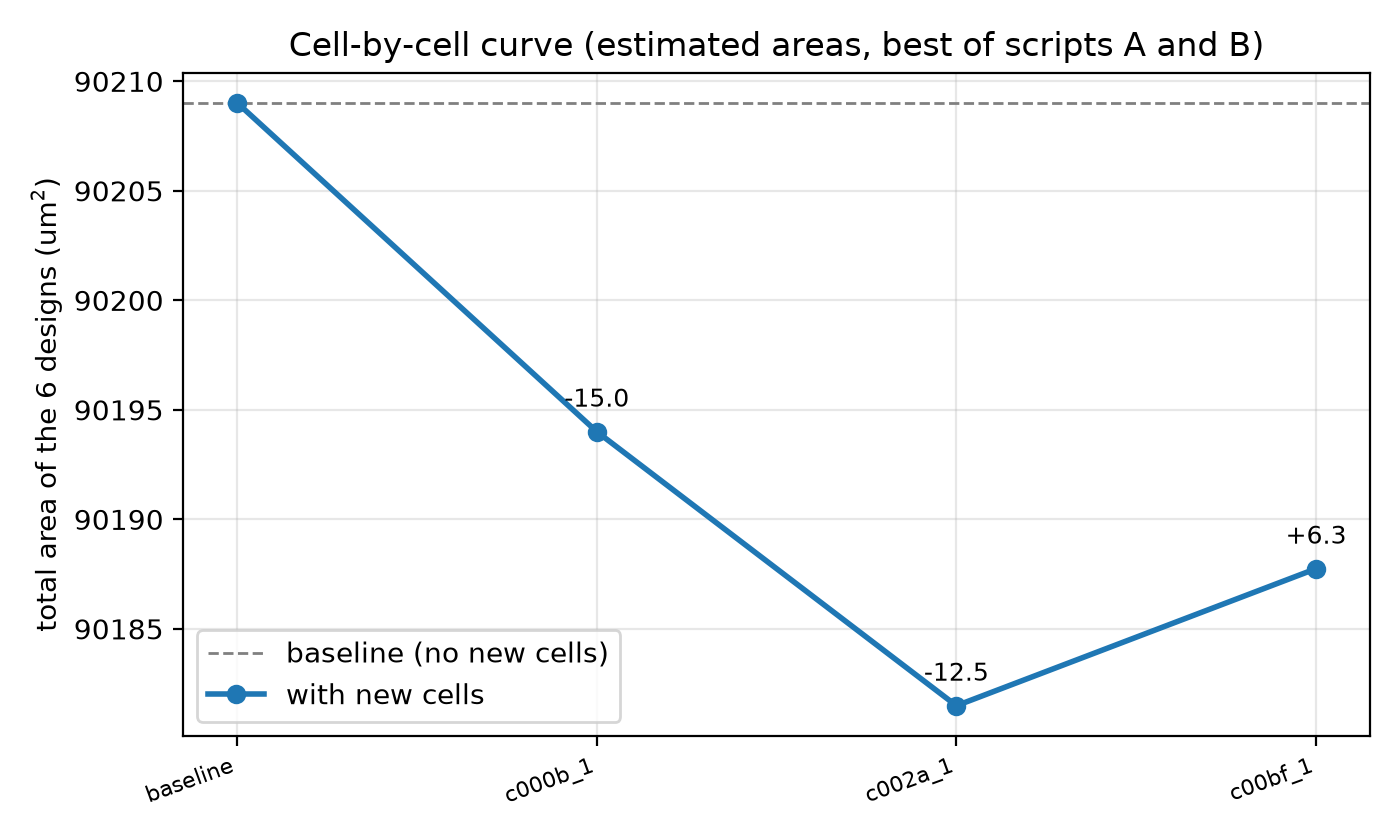
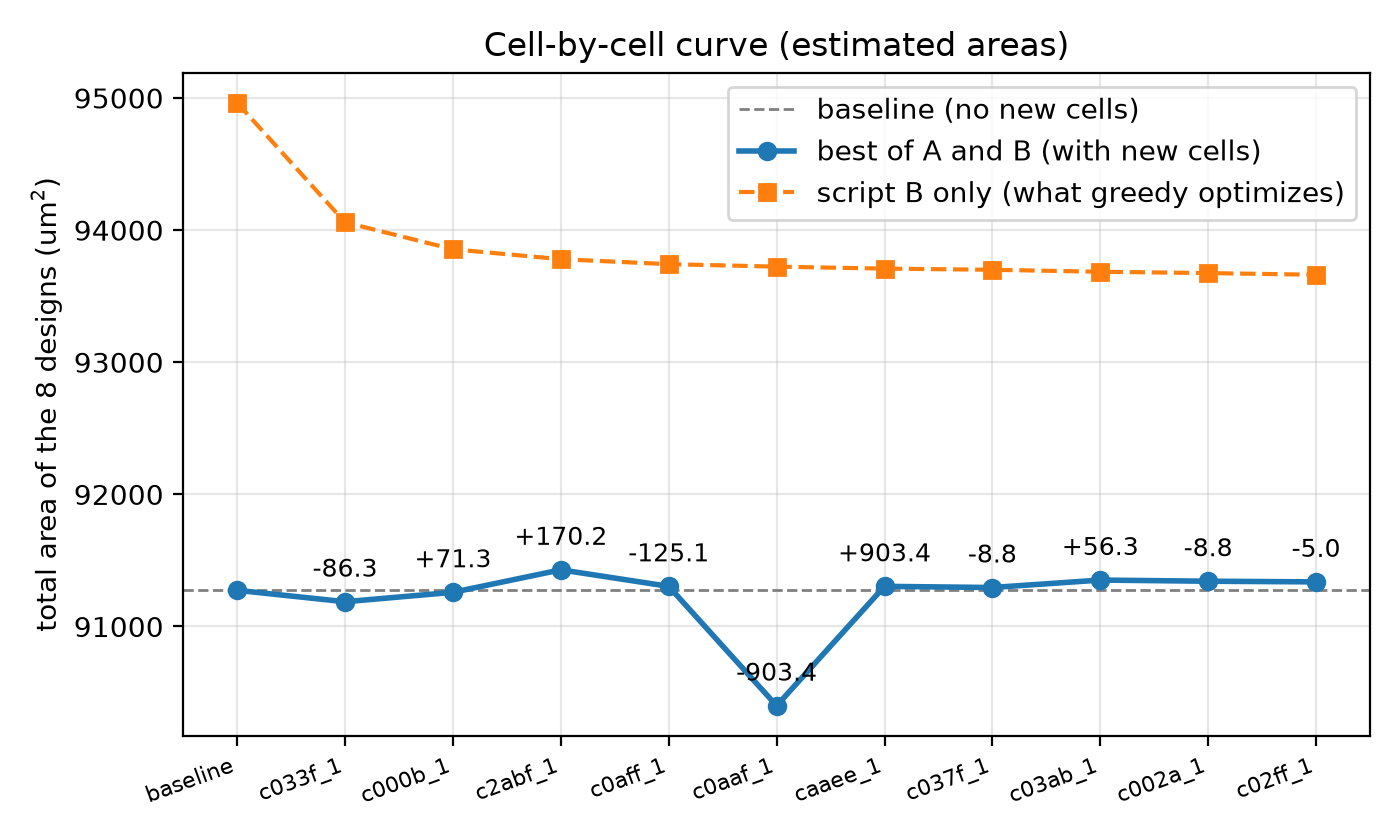
Regenerate the curves for the new final set, real areas of the final cells, 30% test

diff --git a/src/curve.py b/src/curve.py
@@ -111,16 +111,18 @@ def write_curve_csv(path, rows, designs):
               "change_vs_baseline_um2", "saving_vs_baseline_pct"]
     
     header += [f"{d}_best_um2" for d in designs]
-    
+    header += ["total_script_A_um2", "total_script_B_um2"]
+
     with open(path, "w", newline="") as f:
         writer = csv.writer(f, lineterminator="\n")
         writer.writerow(header)
         writer.writerows(rows)
 
 
-def plot_curve(path, labels, totals, title):
+def plot_curve(path, labels, totals, title, totals_b=None):
     """
-    Total best-of-both area after each added cell
+    Total best-of-both area after each added cell, and (dashed) the script B
+    total, the number the greedy selection optimizes
     """
     try:
         import matplotlib
@@ -136,7 +138,10 @@ def plot_curve(path, labels, totals, title):
     fig, ax = plt.subplots(figsize=(7, 4.2))
     ax.axhline(baseline, color="grey", linestyle="--", linewidth=1,
                label="baseline (no new cells)")
-    ax.plot(steps, totals, marker="o", linewidth=2, label="with new cells")
+    ax.plot(steps, totals, marker="o", linewidth=2, label="best of A and B (with new cells)")
+    if totals_b is not None:
+        ax.plot(steps, totals_b, marker="s", linewidth=1.5, linestyle="--",
+                color="tab:orange", label="script B only (what greedy optimizes)")
 
     # Write the change next to every point: this shows which cell did the work.
     for i in range(1, len(totals)):
@@ -146,7 +151,7 @@ def plot_curve(path, labels, totals, title):
 
     ax.set_xticks(steps)
     ax.set_xticklabels(labels, rotation=20, ha="right", fontsize=8)
-    ax.set_ylabel("total area of the 6 designs (um$^2$)")
+    ax.set_ylabel("total area of the 8 designs (um$^2$)")
     ax.set_title(title)
     ax.legend()
     ax.grid(alpha=0.3)
@@ -171,7 +176,7 @@ def build_curve(mode):
 
     designs = [d for d, _ in DESIGNS]
 
-    rows, labels, totals = [], [], []
+    rows, labels, totals, totals_b = [], [], [], []
     for k, (total, per_design, cell_uses) in enumerate(results):
         name = "(baseline)" if k == 0 else chosen[k - 1][0]
 
@@ -181,17 +186,20 @@ def build_curve(mode):
         rows.append([k, name, round(total, 4), round(total - previous, 4),
                      round(total - baseline, 4),
                      round((baseline - total) / baseline * 100, 3)]
-                    + [round(best, 4) for _, _, _, best in per_design])
-        
+                    + [round(best, 4) for _, _, _, best in per_design]
+                    + [round(sum(a for _, a, _, _ in per_design), 4),
+                       round(sum(b for _, _, b, _ in per_design), 4)])
+
         labels.append("baseline" if k == 0 else name.replace("dd2_gb3__", ""))
         totals.append(total)
+        totals_b.append(sum(b for _, _, b, _ in per_design))
         print(f"step {k}  {name:20} total {total:11.4f}  "
               f"change {total - previous:+9.4f}  uses {cell_uses}")
 
     os.makedirs("results", exist_ok=True)
     write_curve_csv(f"results/curve_{mode}.csv", rows, designs)
     plot_curve(f"results/curve_{mode}.png", labels, totals,
-               f"Cell-by-cell curve ({mode} areas, best of scripts A and B)")
+               f"Cell-by-cell curve ({mode} areas)", totals_b)
 
 
 if __name__ == "__main__":

diff --git a/scripts/real_areas.py b/scripts/real_areas.py
@@ -40,7 +40,14 @@ def read_report(out_dir):
         "backend": report.get("layout_backend", ""),
     }
 
-cells = cells_from_ranked("results/ranked.csv", None, "b3")
+if len(sys.argv) > 1:
+    # python3 scripts/real_areas.py libs/final_estimated.csv
+    # only the cells of this CSV (columns name, expression, area_um2), e.g. the final set
+    with open(sys.argv[1]) as f:
+        cells = [(r["name"], r["expression"], float(r["area_um2"]))
+                 for r in csv.DictReader(f)]
+else:
+    cells = cells_from_ranked("results/ranked.csv", None, "b3")
 
 rows = []
 for name, expression, estimated in cells:
